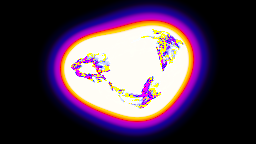
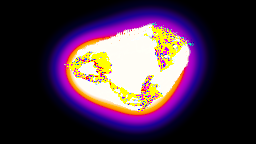
T1271: E35 conditions its audio once, and two lanes stop running backwards
The graph half of this row rode in 708b0d4 (another session's bare commit swept the
shared index while this was in flight); this commit carries the rest — the document,
the claim, the prose and the baseline.

`valuelag1` (0.09 s) into eight gain·bias pairs — sixteen value-math nodes conditioning
one source's raw band energy — become one `component:audioAnalysis@1`, two 0..1 bags
(`lvl1` on the ranked levels, `hit1` on the drum counts) and one expression per property.
Six properties read the rank; the cyan sparkle (`renderpoints3`'s size and `level2`'s
brightness, which are one flash) reads `hatCount`, because a rank rests at 0.5 and would
leave that flash half-lit forever while a count rests at 0 and decays over 250 ms.

Measured over 30 s of the shipped pattern, the old lanes made two claims they could not
support. The `high` lanes ran NEGATIVE for 21-22% of the run — `23.2749 · high − 7.5588`
reaches −6.30 in the arrangement's quiet bar, and a negative brightness subtracts the
cyan layer from the frame rather than dimming it. And six of the eight retained values
sat outside their own lane's range (§V914), three of them at 0 on parameters that draw:
cutting the audio path on the shipped file rendered 0.0000 of the frame lit, a black
frame, because `renderpoints1.sizePixels` retained 0 is a point cloud with no points.
Every retained value now equals what silence renders, and silence is the rank's middle.
[…]

diff --git a/src/examples/nova-torus.gpu.test.ts b/src/examples/nova-torus.gpu.test.ts
@@ -11,10 +11,26 @@ import { requireExample } from "./runner.ts";
  * The orchestration brief was explicit: E35 earns its slot because the audio drives the
  * TUBE'S THICKNESS (`radius2` ← lowMid) where Corona drives a sphere's whole radius —
  * "if that reactivity is not legible in the shipped render, it is Corona with a
- * different mesh and not worth a slot." So the gate measures legibility, not wiring:
- * the same document with the pattern muted renders a visibly thinner ring, and the
- * difference is large enough that no drift can hide it. Judged on the display-encoded
- * tile (§V618). Measured at build time: 16.7% of the frame lit against 6.3% muted.
+ * different mesh and not worth a slot." So the gate measures legibility, not wiring.
+ *
+ * T1271 CHANGED THE SHAPE OF THIS CLAIM, and §V955 is why. It used to compare one frame
+ * of the file against one frame with `music1.amount = 0` and demand `muted < loud × 0.25`.
+ * Muting hands the analysis a CONSTANT, and a constant ranks 0.5 (§V952) — so after the
+ * rebuild a muted E35 renders a MID-thickness tube, and the old gate would have failed on
+ * a file whose reactivity is intact. A mute arm cannot measure reactivity through a
+ * normaliser in either direction.
+ *
+ * What replaces it measures the thing the rank actually makes true: the ring BREATHES
+ * with the audio and STANDS STILL without it. The comparison arm CUTS the audio path
+ * (every driven parameter falls to its retained value) rather than muting it, and the
+ * quantity is the coefficient of variation of lit area across a window rather than its
+ * level at one frame — a rank cannot fake a variance, and a single frame cannot state one.
+ * Measured at build time over 10 s at 768×432: cv 0.2152 wired, 0.0369 cut, a factor of
+ * 5.8. The residual on the cut arm is the kernel's own tumble, which is not audio.
+ *
+ * The cut arm is also §V914's gate on this file: cutting the audio path on the SHIPPED
+ * (pre-T1271) document rendered 0.0000 of the frame lit — a black frame, because three
+ * retained values were 0 on parameters that draw. It renders a still torus now.
  */
 
 function e35() {
@@ -28,38 +44,54 @@ beforeAll(async () => {
   dawnError = (await probeDawn()).error;
 }, 60_000);
 
-async function litFraction(muted: boolean): Promise<number> {
-  const { document } = e35();
+/**
+ * Lit area per frame across a window. `muted` is gone on purpose (§V955); `cut` severs
+ * every edge out of an audio source, which is what leaves each driven parameter standing
+ * on its retained value.
+ */
+async function litSeries(cut: boolean): Promise<number[]> {
+  const { document, result } = e35();
   const graph = structuredClone(document.graph) as typeof document.graph;
-  if (muted) {
-    const music = Object.values(graph.nodes).find((node) => node.label === "music1");
-    if (music === undefined) throw new Error("E35 has no music1 — the T504 swap is gone");
-    (music.parameters as Record<string, unknown>)["amount"] = 0;
+  if (cut) {
+    for (const [id, edge] of Object.entries(graph.edges)) {
+      const source = graph.nodes[edge.source.nodeId];
+      if (source?.type === "audioPattern" || source?.type === "audioFileIn") {
+        delete (graph.edges as Record<string, unknown>)[id];
+      }
+    }
   }
   const output = Object.values(graph.nodes).find((node) => node.label === "output1");
   if (output === undefined) throw new Error("E35 has no output1");
-  const result = await renderHeadless({
+  const capture = [60, 120, 180, 240, 300, 360, 420, 480, 540];
+  const result2 = await renderHeadless({
     host: nodeGpuHost(),
     graph,
-    settings: document.settings,
-    frames: 41,
-    capture: [40],
+    settings: { ...document.settings, outputResolution: { width: 384, height: 216 } },
+    frames: 541,
+    capture,
     animate: true,
     outputNodeId: output.id,
+    ...(result.components ? { components: result.components } : {}),
   });
-  const frame = result.frames[0];
-  if (frame === undefined) throw new Error("no frame captured");
-  const space = result.plan.outputs.find((o) => o.resourceId === result.outputResourceId)?.space ?? "display";
-  const rgba = toRgba8(
-    { width: frame.width, height: frame.height, format: frame.format, rowStride: frame.bytes.length / frame.height, bytes: frame.bytes } as never,
-    { space } as never,
-  ).data;
-  let lit = 0;
-  for (let i = 0; i < rgba.length; i += 4) {
-    if ((rgba[i] ?? 0) + (rgba[i + 1] ?? 0) + (rgba[i + 2] ?? 0) > 45) lit += 1;
-  }
-  return lit / (rgba.length / 4);
+  const space = result2.plan.outputs.find((o) => o.resourceId === result2.outputResourceId)?.space ?? "display";
+  return result2.frames.map((frame) => {
+    const rgba = toRgba8(
+      { width: frame.width, height: frame.height, format: frame.format, rowStride: frame.bytes.length / frame.height, bytes: frame.bytes } as never,
+      { space } as never,
+    ).data;
+    let lit = 0;
+    for (let i = 0; i < rgba.length; i += 4) {
+      if ((rgba[i] ?? 0) + (rgba[i + 1] ?? 0) + (rgba[i + 2] ?? 0) > 45) lit += 1;
+    }
+    return lit / (rgba.length / 4);
+  });
 }
+
+const variation = (series: readonly number[]): number => {
+  const mean = series.reduce((total, value) => total + value, 0) / series.length;
+  const sd = Math.sqrt(series.reduce((total, value) => total + (value - mean) ** 2, 0) / series.length);
+  return sd / mean;
+};
 
 /**
  * T683 — THE TURNTABLE, gated the way the symmetry trap demands.
@@ -94,7 +126,7 @@ function centroidAngles(rgba: Uint8Array | Uint8ClampedArray, width: number, hei
 describe("E35 — the layers turn against each other (T683)", () => {
   it("relative phase between the colour populations sweeps, and survives a lap by construction", async () => {
     if (dawnError !== undefined) throw new Error(`Dawn did not start: ${dawnError}`);
-    const { document } = e35();
+    const { document, result: loaded } = e35();
     const kernelNode = Object.values(document.graph.nodes).find((node) => node.label === "pointkernel1");
     const kernel = String((kernelNode?.parameters as Record<string, unknown>)["kernel"]);
     // Lap survival is structural: the kernel's clock is ctx.absTime (seconds, keeps
@@ -116,6 +148,8 @@ describe("E35 — the layers turn against each other (T683)", () => {
       capture: [0, 120],
       animate: true,
       outputNodeId: output.id,
+      // T1271: E35 instances the AudioAnalysis component, so its library rides along.
+      ...(loaded.components ? { components: loaded.components } : {}),
     });
     const space = result.plan.outputs.find((o) => o.resourceId === result.outputResourceId)?.space ?? "display";
     const angles = result.frames.map((frame) => {
@@ -132,19 +166,19 @@ describe("E35 — the layers turn against each other (T683)", () => {
   }, 240_000);
 });
 
-describe("E35 — the audio drives the tube, visibly (T660, §V471)", () => {
-  it("muting the pattern thins the ring to well under half its lit area", async () => {
+describe("E35 — the audio drives the tube, visibly (T660, §V471, §V955)", () => {
+  it("the ring breathes with the audio and stands still with the path cut", async () => {
     if (dawnError !== undefined) throw new Error(`Dawn did not start: ${dawnError}`);
-    const [loud, muted] = await Promise.all([litFraction(false), litFraction(true)]);
-    // The driven tube: with the pattern playing, the lowMid band holds radius2 well
-    // above its 0.18 floor and the ring wears real thickness.
-    expect(loud).toBeGreaterThan(0.12);
-    // T701 sharpened this: in the analyser's domain SILENCE reads 0 — exactly as a
-    // silent live track does — so a muted pattern collapses the tube entirely instead
-    // of resting on the old linear bias floor. The reactivity IS the picture (§V461):
-    // a dead audio path cannot fake the loud frame, and the muted one going ~black is
-    // the same claim from the other side. (A host with NO channel resolver still draws
-    // a sane tube — radius2's retained static is 0.3, per §V107.)
-    expect(muted).toBeLessThan(loud * 0.25);
+    const [wired, cut] = await Promise.all([litSeries(false), litSeries(true)]);
+    // The cut arm must still DRAW: §V914, and the pre-T1271 file failed this at 0.0000 —
+    // three retained values were 0 on parameters that draw, so a host with no channel
+    // resolver got a black frame. This is the half a variance ratio alone cannot catch,
+    // because two black frames have no variance either.
+    const cutMean = cut.reduce((total, value) => total + value, 0) / cut.length;
+    expect(cutMean).toBeGreaterThan(0.1);
+    // And the audio must be what moves it. Measured 0.2152 wired against 0.0369 cut; the
+    // margin sits well inside that, and the cut arm's own residual is the kernel's tumble.
+    expect(variation(wired)).toBeGreaterThan(variation(cut) * 3);
+    expect(variation(wired)).toBeGreaterThan(0.12);
   }, 240_000);
 });

diff --git a/src/examples/temporal.test.ts b/src/examples/temporal.test.ts
@@ -26,11 +26,14 @@ interface TemporalExample {
   readonly file: ExampleFile;
   readonly document: ProjectDocument;
   readonly plan: CompiledGraph;
+  /* T1271: an example that INSTANCES a component carries its library, and every re-compile
+     below has to be handed the same one or it compiles a different graph. */
+  readonly loaded: ReturnType<typeof requireExample>["result"];
 }
 
 const temporalExamples: TemporalExample[] = examples.flatMap((file) => {
-  const { document, plan } = requireExample(file);
-  return plan.feedback.length === 0 ? [] : [{ file, document, plan }];
+  const { document, plan, result: loaded } = requireExample(file);
+  return plan.feedback.length === 0 ? [] : [{ file, document, plan, loaded }];
 });
 
 /**
@@ -89,12 +92,17 @@ function withUnrelatedBranch(graph: GraphDocument): GraphDocument {
   };
 }
 
-function compile(document: ProjectDocument, graph: GraphDocument): CompiledGraph {
+function compile(
+  document: ProjectDocument,
+  graph: GraphDocument,
+  loaded?: TemporalExample["loaded"],
+): CompiledGraph {
   return compileGraph({
     graph,
     settings: document.settings,
-    registry: exampleRegistry(),
+    registry: loaded?.nodes ?? exampleRegistry(),
     capabilities: TIER_B_CAPABILITIES,
+    ...(loaded?.components ? { components: loaded.components } : {}),
   });
 }
 
@@ -169,7 +177,7 @@ describe("examples with a temporal loop", () => {
   });
 });
 
-describe.each(temporalExamples)("$file.fileName temporal structure", ({ document, plan }) => {
+describe.each(temporalExamples)("$file.fileName temporal structure", ({ document, plan, loaded }) => {
   /**
    * §V4 → §V285: the LOOP is real, but since T350 the document no longer wires it —
    * Feedback NAMES its source, `edges` stays a DAG, and the compiler synthesizes the
@@ -241,7 +249,7 @@ describe.each(temporalExamples)("$file.fileName temporal structure", ({ document
    * it runs and one you have to restart.
    */
   it("keeps the pair across an unrelated but reachable edit", () => {
-    const edited = compile(document, withUnrelatedBranch(document.graph));
+    const edited = compile(document, withUnrelatedBranch(document.graph), loaded);
 
     // The edit has to actually be live, or this proves nothing: a pruned node never
     // reaches resource allocation, so the diff below would be trivially empty.
@@ -273,8 +281,9 @@ describe.each(temporalExamples)("$file.fileName temporal structure", ({ document
           height: document.settings.outputResolution.height + 64,
         },
       },
-      registry: exampleRegistry(),
+      registry: loaded.nodes ?? exampleRegistry(),
       capabilities: TIER_B_CAPABILITIES,
+      ...(loaded.components ? { components: loaded.components } : {}),
     });
 
     const pairsThatMoved = plan.feedback.filter((pair) => {

diff --git a/examples/E35-Nova-Torus.md b/examples/E35-Nova-Torus.md
@@ -42,7 +42,7 @@ eight expressions, for reasons the last section sets out with the numbers.
   bounded 0..1 parameter, the *identical numbers* Corona shipped with and the owner
   found within minutes. Corona's retune applies wholesale: gain 0.30, trails topping
   out at 0.92, where a trail still ends.
-- **The dead pair is wired.** `valuemath15 ×9 → valuemath16 +1` drove nothing in the
+- **The dead pair is wired.** The saved ×9 → +1 pair drove nothing in the
   saved file. Corona's identical tipG/tip pair drives its third renderPoints' size on
   the cyan tips, and this file's third renderPoints is also the cyan sparkle group with
   its size sitting static — unfinished intent with a working precedent. It drives
@@ -64,8 +64,8 @@ display-encoded tile (§V618), where all of this file's look calls were made.
 
 ## One analysis instance, and eight expressions (T1271)
 
-What stood between `source1` and the picture was `valuelag1` (0.09 s) feeding eight
-gain·bias pairs — sixteen `valueMath` nodes conditioning one source's RAW band energy.
+What stood between `source1` and the picture was a 0.09 s Lag feeding eight
+gain·bias pairs — sixteen value-math nodes conditioning one source's RAW band energy.
 The rebuild replaces them with one `component:audioAnalysis@1`, two 0..1 bags (`lvl1` on
 its ranked levels, `hit1` on its drum counts) and one expression per property. The node
 count is the visible change; two measurements are the reason.
